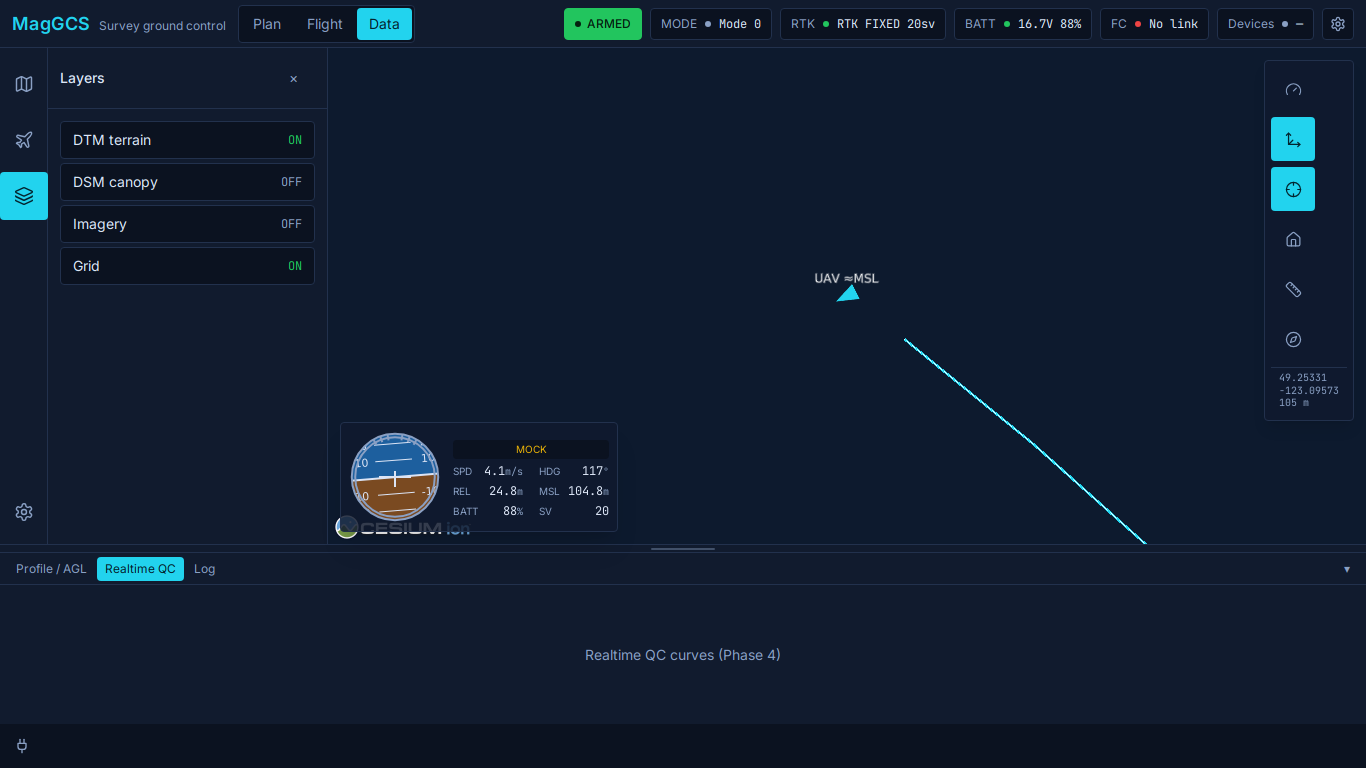
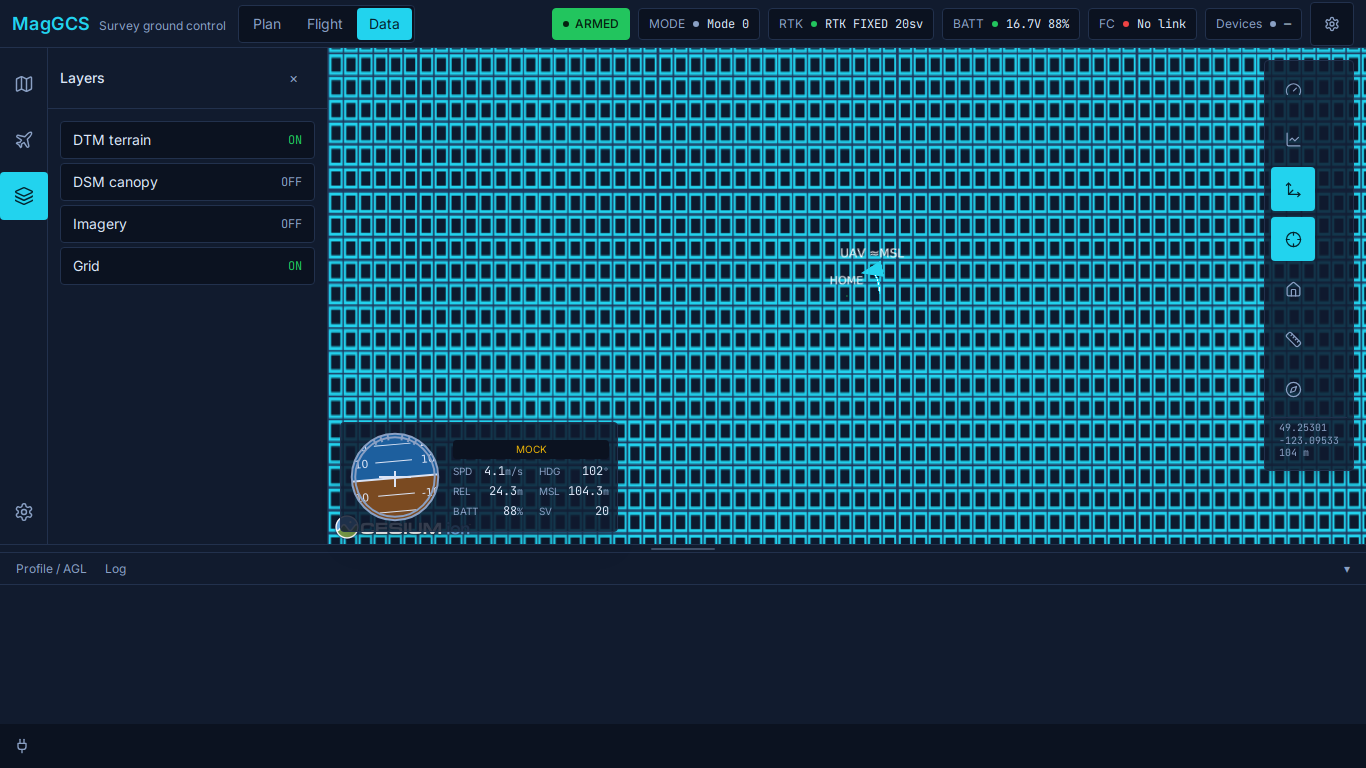
Fix blank/blank-map: uPlot Intl locale crash (locale-shim), GridImageryProvider base, follow gated on telemetry; regenerate baselines

diff --git a/frontend/src/components/MapView.tsx b/frontend/src/components/MapView.tsx
@@ -30,32 +30,12 @@ export default function MapView() {
     if (!container) return
     try {
 
-    const canvas = document.createElement('canvas')
-    canvas.width = 1024
-    canvas.height = 512
-    const g = canvas.getContext('2d')
-    if (g) {
-      g.fillStyle = cssVar('--mg-grid-bg')
-      g.fillRect(0, 0, 1024, 512)
-      g.strokeStyle = cssVar('--mg-grid-line')
-      g.lineWidth = 1
-      for (let x = 0; x <= 1024; x += 64) {
-        g.beginPath()
-        g.moveTo(x, 0)
-        g.lineTo(x, 512)
-        g.stroke()
-      }
-      for (let y = 0; y <= 512; y += 64) {
-        g.beginPath()
-        g.moveTo(0, y)
-        g.lineTo(1024, y)
-        g.stroke()
-      }
-    }
-    const grid = new Cesium.SingleTileImageryProvider({
-      url: canvas.toDataURL('image/png'),
-      tileWidth: 1024,
-      tileHeight: 512,
+    const grid = new Cesium.GridImageryProvider({
+      cells: 16,
+      color: Cesium.Color.fromCssColorString(cssVar('--mg-grid-line')),
+      glowColor: Cesium.Color.fromCssColorString(cssVar('--mg-grid-glow')),
+      backgroundColor: Cesium.Color.fromCssColorString(cssVar('--mg-grid-bg')),
+      canvasSize: 256,
     })
     const viewer = new Cesium.Viewer(container, {
       baseLayer: new Cesium.ImageryLayer(grid),
@@ -170,7 +150,8 @@ export default function MapView() {
   useEffect(() => {
     const viewer = viewerRef.current
     if (!viewer) return
-    if (follow && droneRef.current) {
+    const hasPos = useTelemetryStore.getState().snapshot?.global_position != null
+    if (follow && hasPos && droneRef.current) {
       viewer.trackedEntity = droneRef.current
     } else {
       viewer.trackedEntity = undefined

diff --git a/frontend/src/locale-shim.ts b/frontend/src/locale-shim.ts
@@ -1,0 +1,16 @@
+// Normalize an Intl-incompatible `navigator.language` (e.g. "en-US@posix" in
+// headless Chromium / some WebView2 builds) before any library reads it.
+// Libraries like uPlot build `Intl.NumberFormat(navigator.language)` at module
+// scope; an invalid locale string throws and blanks the whole app.
+const lang = typeof navigator !== 'undefined' ? navigator.language : ''
+
+if (lang.includes('@') || lang === '' || lang === 'unknown') {
+  try {
+    Object.defineProperty(navigator, 'language', {
+      get: () => 'en-US',
+      configurable: true,
+    })
+  } catch {
+    /* not configurable; fall back to leaving it */
+  }
+}

diff --git a/frontend/src/main.tsx b/frontend/src/main.tsx
@@ -1,3 +1,4 @@
+import './locale-shim'
 import React from 'react'
 import ReactDOM from 'react-dom/client'
 import './design-system/index.css'
